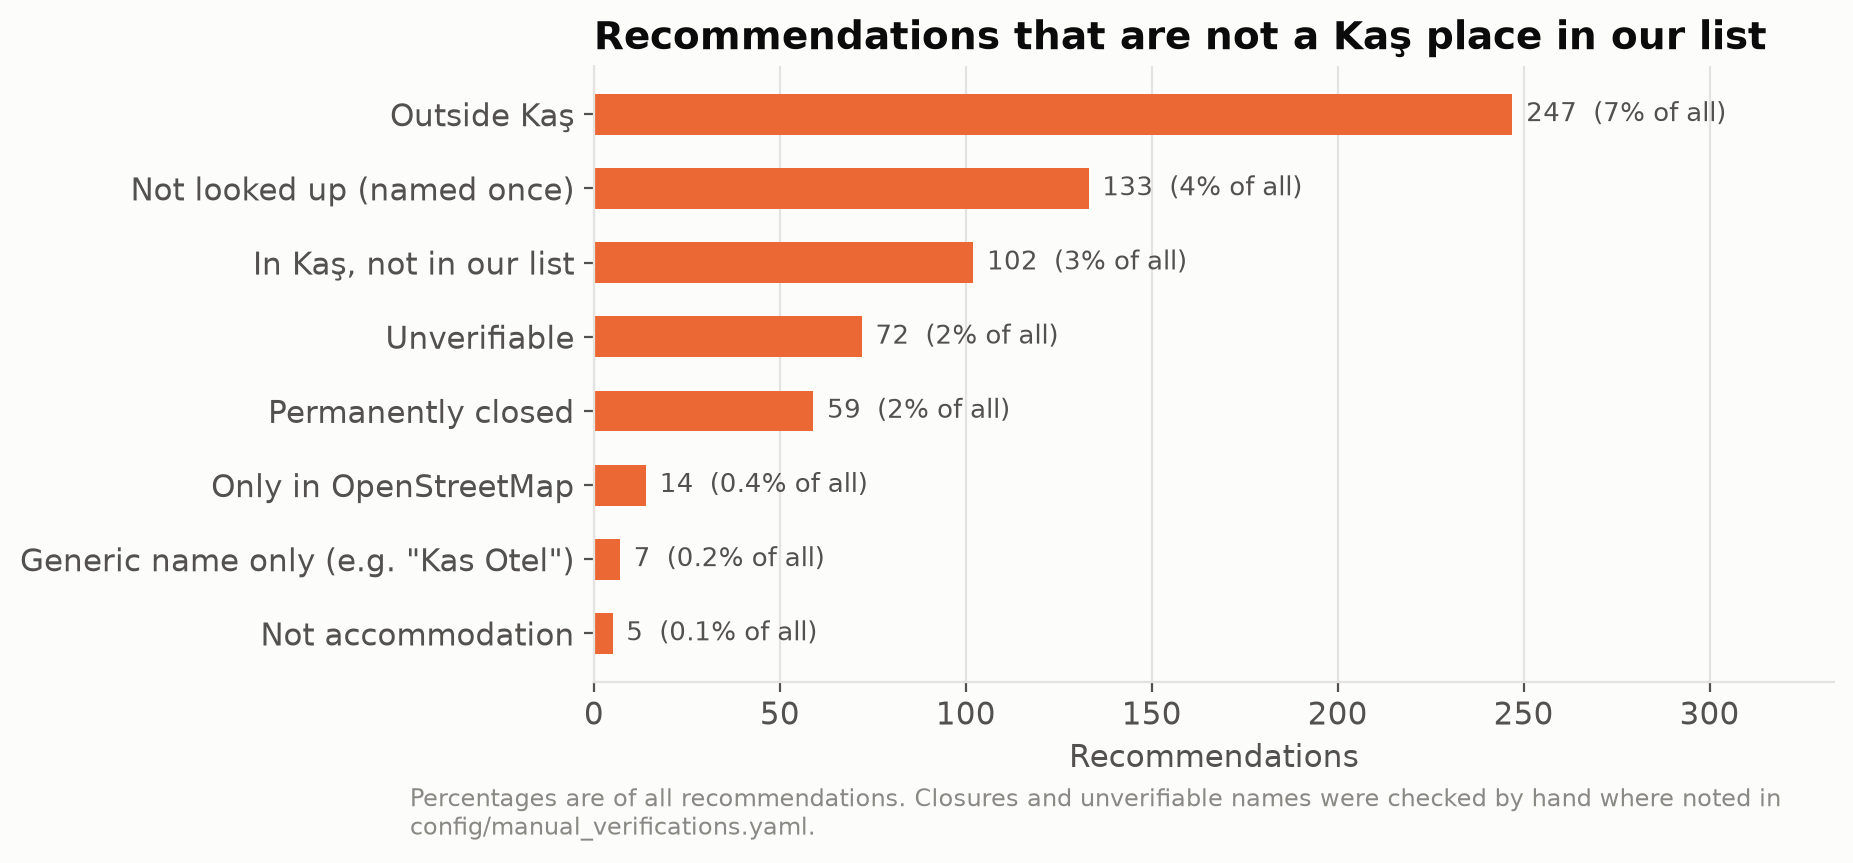
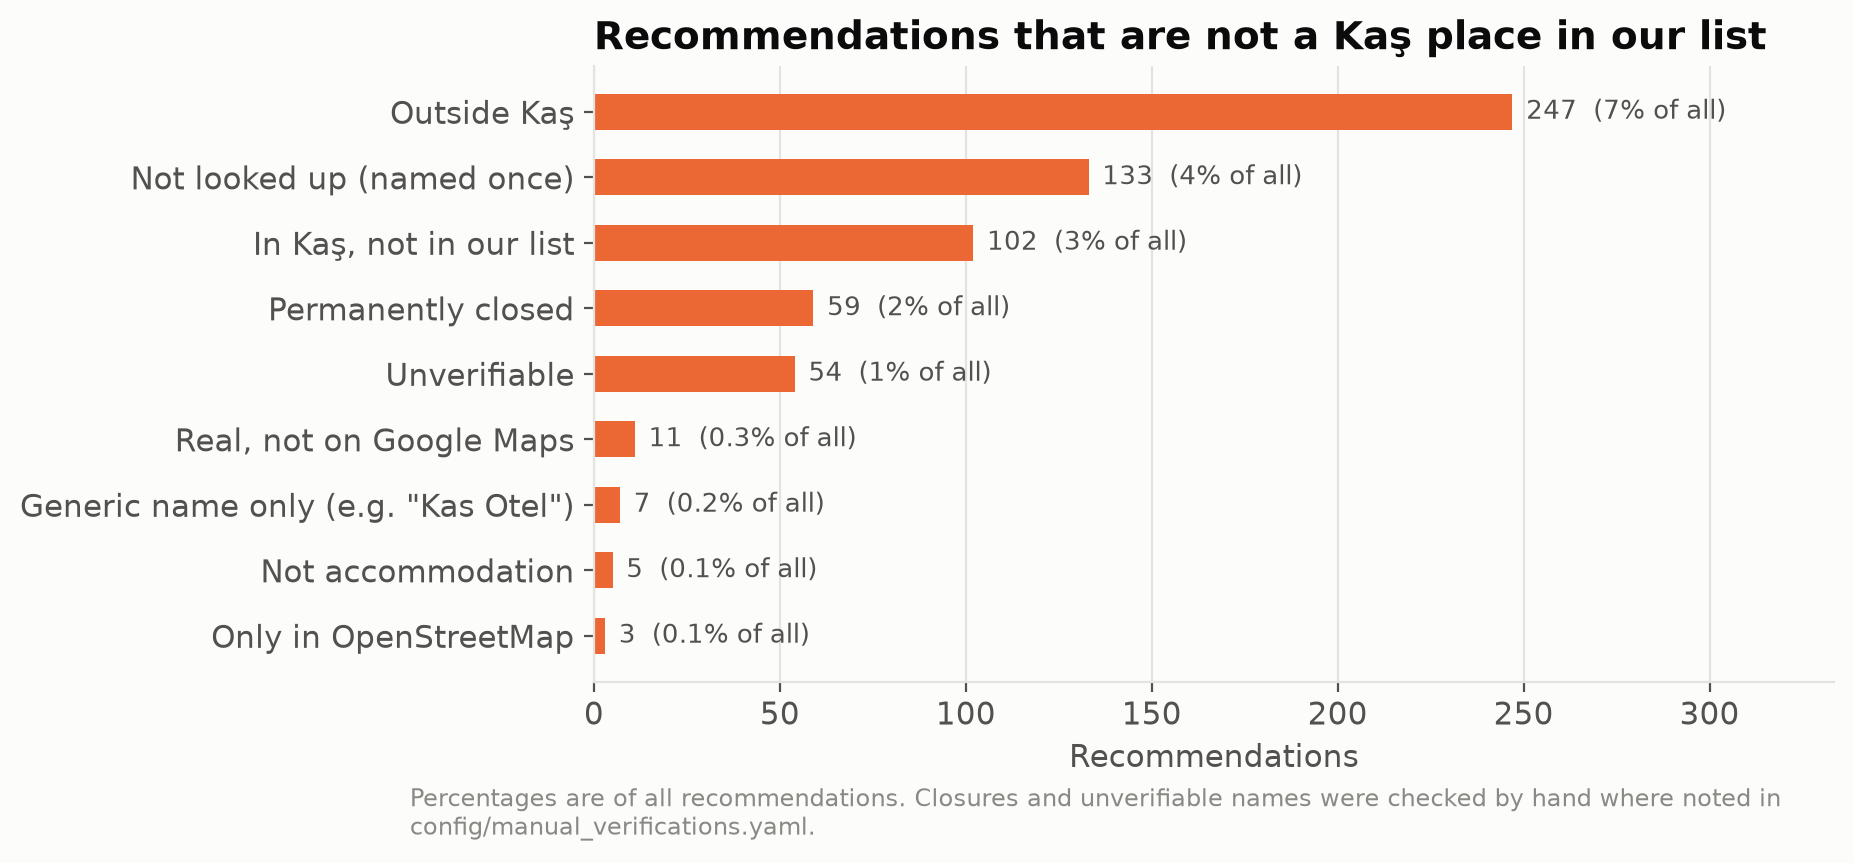
Record three hand-checked names; allow exact-name manual matches
Project owner's research, in config/manual_verifications.yaml:
- Carruba Boutique Hotel: central Kaş (Andifli, Engin Sk. No:3); on
  Google Maps (245 reviews) but missed by the place search, so it stays
  not_in_place_list, now confirmed by hand.
- Sole Suites = Google listing "Sole Vista Homes" (same_as by cid).
- Blue Island Luxury Hotel: no Google Maps listing, but on Trivago and
  with its own website -> new status not_on_google_maps.

Sole Suites reduces to the single distinctive word "sole", which the
word-subset variant rule would also apply to "Sole'n Blu Hotel". At the
owner's request no general rule was changed: manual entries can now
list match_names, exact names as written, and such entries are applied
only to those names (src/match_mentions.exact_name_entry, also used by
src/classify_unmatched.py). Verified: Sole Suites -> Sole Vista Homes;
Sole'n Blu Hotel keeps its 66 LLM matches.

Re-run from cache (no API calls): coverage 43.7% and the hypothesis
shares are unchanged; verdict still mixed. Chart label added for
not_on_google_maps.

diff --git a/src/match_mentions.py b/src/match_mentions.py
@@ -120,6 +120,11 @@ def match_answer(answer, places_text: str, uids: set, cores: dict, lodging: set,
     return ordered
 
 
+def exact_name_entry(name: str, verified: dict) -> str | None:
+    """The hand-verified entry that lists this exact name in match_names, if any."""
+    return next((key for key, facts in verified.items() if name in (facts.get("match_names") or [])), None)
+
+
 def verified_key(core: str, keys) -> str | None:
     """The hand-verified entry whose words all appear in this name (catches spelling variants
     such as "Sea Garden Ka Hotel" for the "sea garden" entry); the longest key wins."""
@@ -152,12 +157,15 @@ def apply_corrections(mentions: pd.DataFrame, answers: pd.DataFrame, citations: 
     cid_to_uid = dict(zip(places.cid, places.place_uid))
     aliases = {core: cid_to_uid[str(facts["google_cid"])] for core, facts in verified.items()
                if facts["status"] == "same_as" and str(facts["google_cid"]) in cid_to_uid}
+    # entries with match_names apply only to those exact names, never by word matching
+    by_words = {core: uid for core, uid in aliases.items() if not verified[core].get("match_names")}
     site_owner = own_site_domains(places)
     texts = answers.set_index("answer_id").text
     mentions = mentions.assign(matched_by=mentions.place_uid.notna().map({True: "llm", False: None}))
     for index, mention in mentions[mentions.place_uid.isna()].iterrows():
         core = core_name(mention.name_in_answer)
-        if alias := verified_key(core, aliases):
+        alias = exact_name_entry(mention.name_in_answer, verified) or verified_key(core, by_words)
+        if alias in aliases:
             mentions.loc[index, ["place_uid", "matched_by"]] = [aliases[alias], "manual"]
             continue
         if mention.position is None or pd.isna(mention.position):

diff --git a/src/classify_unmatched.py b/src/classify_unmatched.py
@@ -29,7 +29,7 @@ from rapidfuzz import fuzz
 
 from src.collect_places import parse_places
 from src.common import PROCESSED, SETTINGS, Budget, in_destination, km_from_center, load_yaml
-from src.match_mentions import core_name, verified_key
+from src.match_mentions import core_name, exact_name_entry, verified_key
 from src.llm import structured
 from src.review_polygon import fetch_osm
 from src.serper import Serper
@@ -111,7 +111,10 @@ def main():
     rows = []
     for core, group in groups:
         name = group.name_in_answer.value_counts().index[0]   # most common spelling
-        if key := verified_key(core, verified):
+        exact = next((key for spelling in group.name_in_answer.unique()
+                      if (key := exact_name_entry(spelling, verified))), None)
+        word_entries = {k: v for k, v in verified.items() if not v.get("match_names")}
+        if key := exact or verified_key(core, word_entries):
             facts = verified[key]
             rows.append({"core_name": core, "name": name, "spellings": sorted(set(group.name_in_answer)),
                          "mentions": len(group), "recommended": int((group.label == "recommended").sum()),

diff --git a/src/make_charts.py b/src/make_charts.py
@@ -34,7 +34,7 @@ TARGET_NAMES = {"listed_outside_destination": "Outside Kaş", "outside_destinati
                 "osm_only": "Only in OpenStreetMap", "unverifiable": "Unverifiable",
                 "not_accommodation": "Not accommodation", "listed_not_accommodation": "Not accommodation",
                 "in_list_missed_by_matcher": "Matcher miss", "unclassified": "Generic name only (e.g. \"Kas Otel\")",
-                "not_looked_up": "Not looked up (named once)"}
+                "not_looked_up": "Not looked up (named once)", "not_on_google_maps": "Real, not on Google Maps"}
 
 plt.rcParams.update({
     "figure.facecolor": SURFACE, "axes.facecolor": SURFACE, "savefig.facecolor": SURFACE,
